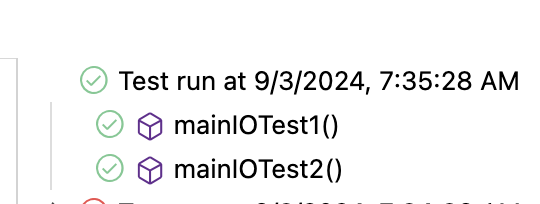
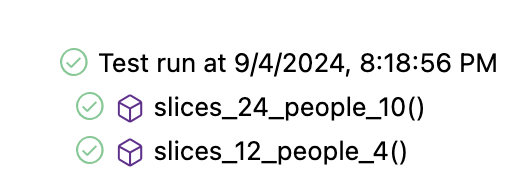
update week2_lab

diff --git a/week2_lab/src/test/java/PizzaSharesTest.java b/week2_lab/src/test/java/PizzaSharesTest.java
@@ -6,7 +6,7 @@ public class PizzaSharesTest {
 
     @Test
     @DisplayName("PizzaShares.main prints correct output for input: 24 10")
-    public void mainIOTest1() throws Exception {
+    public void slices_24_people_10() throws Exception {
 
         String input = "24 10";
         String expectedOutput = "Enter #slices and #people: "
@@ -26,7 +26,7 @@ public class PizzaSharesTest {
 
     @Test
     @DisplayName("PizzaShares.main prints correct output for input: 12 4")
-    public void mainIOTest2() throws Exception {
+    public void slices_12_people_4() throws Exception {
         String input = "12 4";
         String expectedOutput = "Enter #slices and #people: "
                 + "Each person gets 3 slices.\n"

diff --git a/week2_lab/README.md b/week2_lab/README.md
@@ -77,10 +77,11 @@ the contents.
 Let's practice running a Junit test. There are several different ways to run a
 Junit test class.
 
-- In the Explorer, right-click on `HelloTest.java`, then select `Run Java`.
-- In the Editor, click the green arrow run button displayed next to the class
-  header.
-- In the main menubar, select `Run > Run Without Debugging`.
+- Option 1: In the Explorer, right-click on `HelloTest.java`, then select
+  `Run Java`.
+- Option 2: In the Editor, click the green arrow run button displayed next to
+  the class header.
+- Option 3: In the main menubar, select `Run > Run Without Debugging`.
 
 ![run junit test](images/run_test.png)
 
@@ -118,19 +119,17 @@ actual output produced by the current code differs from the expected output.
 
 1. Run the `JavaFacts` class. Notice the actual output does not match the
    expected output.
-2. Run the `JavaFactsTest` Junit class. The test fails as indicates by the red X
-   next to the test method name, along with the error messages displayed in the
-   "TEST RESULTS" window. A table showing the difference between the expected
-   and actual output is displayed in a popup window.
+2. Run the `JavaFactsTest` Junit class. The test fails as indicated by the red X
+   next to the test run, along with the error messages displayed in the "TEST
+   RESULTS" window (scroll through the error messages). A popup window shows the
+   difference between the expected and actual output.
 
 ![test fails](images/test_fail.png)
 
 Let's fix `JavaFacts` to produce the expected output.
 
 1. Edit the second statement in the `main` method to print the character string
-   "Java is an object-oriented language". Save your changes by selecting
-   `File > Save` from the menu bar, or type `Ctrl-S` (Windows/Linux) or
-   `Command-S` (Mac).
+   "Java is an object-oriented language". Save your changes.
 2. Run `JavaFacts` and view the output in the terminal window.
 3. Run `JavaFactsTest` and confirm your solution passes the Junit test. You
    should see a green checkmark next to the test method.
@@ -215,8 +214,9 @@ leftover?
 </table>
 
 1. Update the program to use Java's modulo (remainder) operator to calculate and
-   print the leftover slices as shown in the sample runs tomorrow.
-2. Run `PizzaShares` several times, passing different input values.
+   print the leftover slices as shown in the sample runs below.
+2. Run `PizzaShares` several times, passing different input values and
+confirming the expected output.
 <table>
 <tr>
 <th>Sample Run#1</th><th>Sample Run#2</th>
@@ -230,6 +230,7 @@ Each person gets 3 slices.<br>
 There are 0 slices remaining.</td>
 </tr>
 </table>
+
 3. Run `PizzaSharesTest` to confirm your solution passes the Junit tests. Note
    there are two test methods, each checking a different set of inputs. You'll
    should see multiple test results displayed.
@@ -306,12 +307,11 @@ Remove the comment character on line 23.
 <img src = "images/error_gpa.png" alt="error redeclared gpa" width=500>
 </td>
 <td>
-The variable <code>gpa</code> is underlined in red to indicate an error.
+The variable <code>gpa</code> is underlined in red to indicate an error. Hover the mouse over the error.
 
-Hover the mouse over the error.
+A message "Duplicate local variable gpa" is displayed.
 
-A message "Duplicate local variable gpa". The variable was already declared on
-line 9.
+The variable `gpa` was previously declared on line 9.
 
 </td>
 </tr>
@@ -321,18 +321,21 @@ line 9.
 <img src = "images/run_error_gpa.png" alt="run exception message" width=500>
 </td>
 <td>
-Try to run the program. It crashes due to the compilation problem.
+Try to run the program.
+
+It crashes due to the duplicate variable declaration.
 
 </td>
 </tr>
 
 </table>
 
-Let's fix the error. Line 23 should assign `gpa` to 4.0 **without** redeclaring
-the variable.
+Let's fix the error.
+
+Line 23 should assign `gpa` to 4.0 **without** redeclaring the variable.
 
 1. Remove the type `double` on line 23 to prevent a duplicate variable
-   declaration <code>gpa = 4.0;</code>. The compiler error should go away.
+   declaration. The compiler error should go away.
 2. Run `StudentInfo` to view the output.
 3. Run `StudentInfoTest` to confirm your solution passes the Junit test.
 

diff --git a/week1_project/README.md b/week1_project/README.md
@@ -119,6 +119,8 @@ public class GasPurchase {
 2. Edit the `main` method to prompt the user to enter the number of gallons and
    the price per gallon of gas. Declare appropriate variables to store the user
    input, then calculate and print the cost as shown in the sample runs below.
+3. Run `GasPurchase` several times and confirm the expected output given the
+   input values as shown in the sample runs.
 
 | Sample Run#1                                                            | Sample Run#2                                                         |
 | ----------------------------------------------------------------------- | -------------------------------------------------------------------- |
